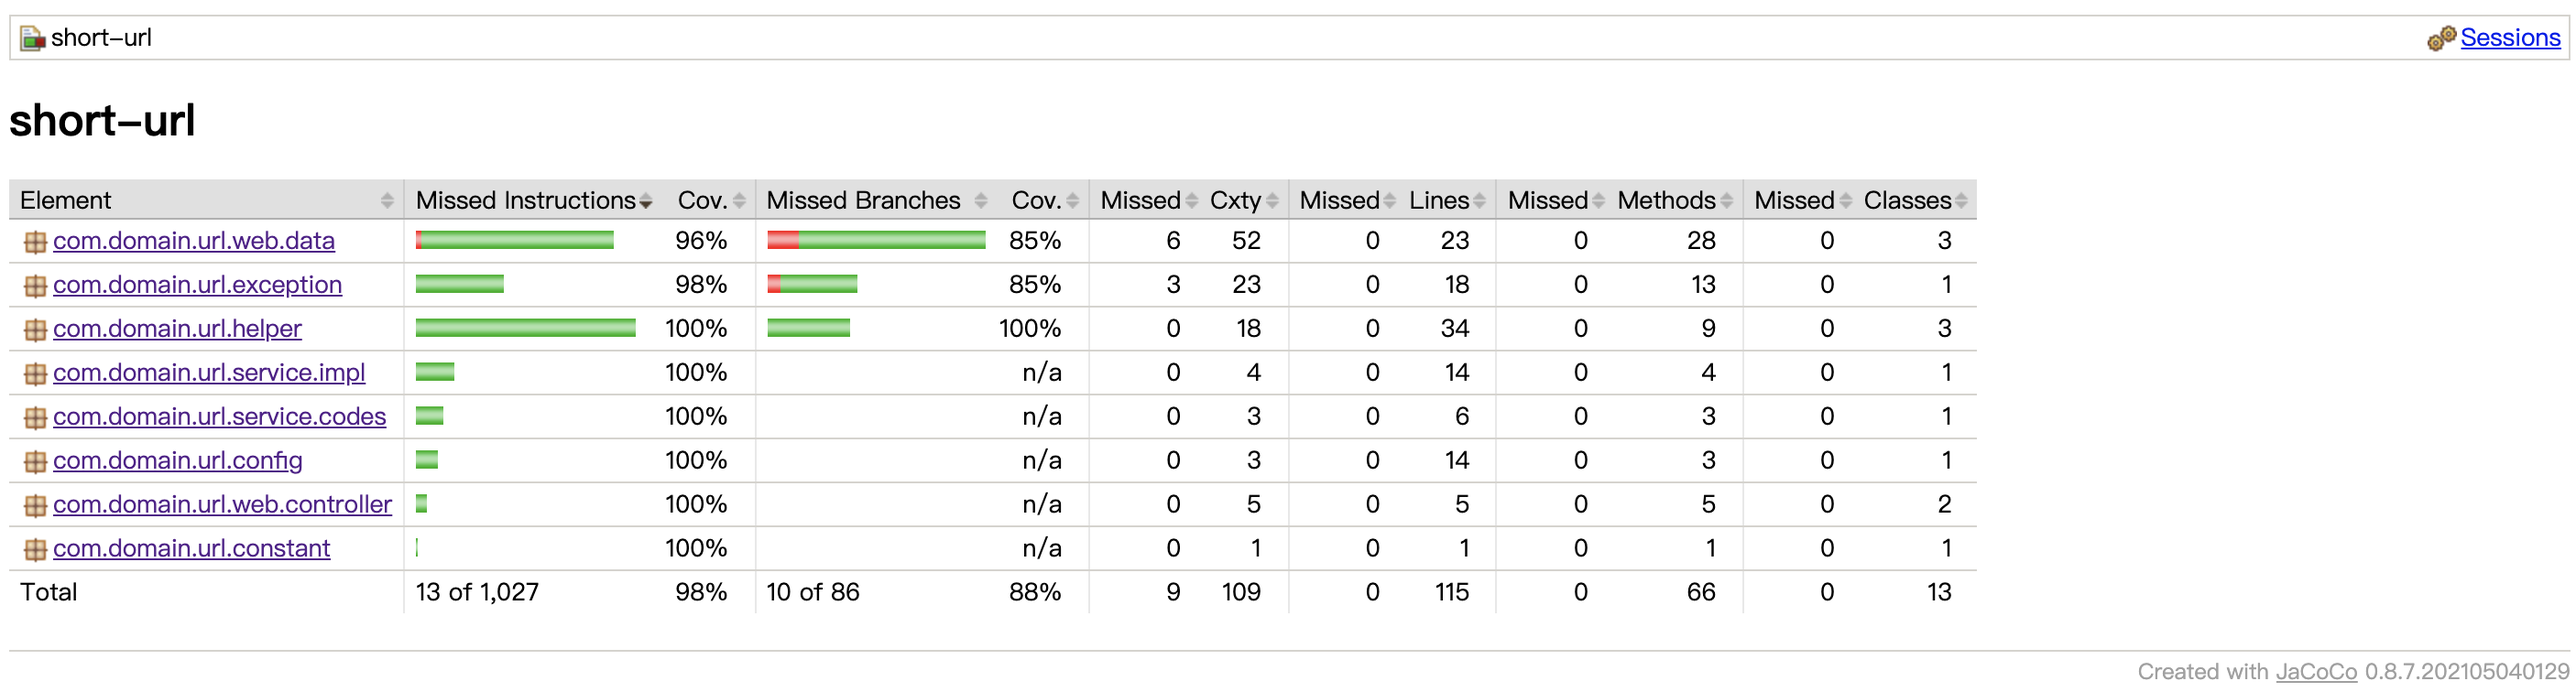
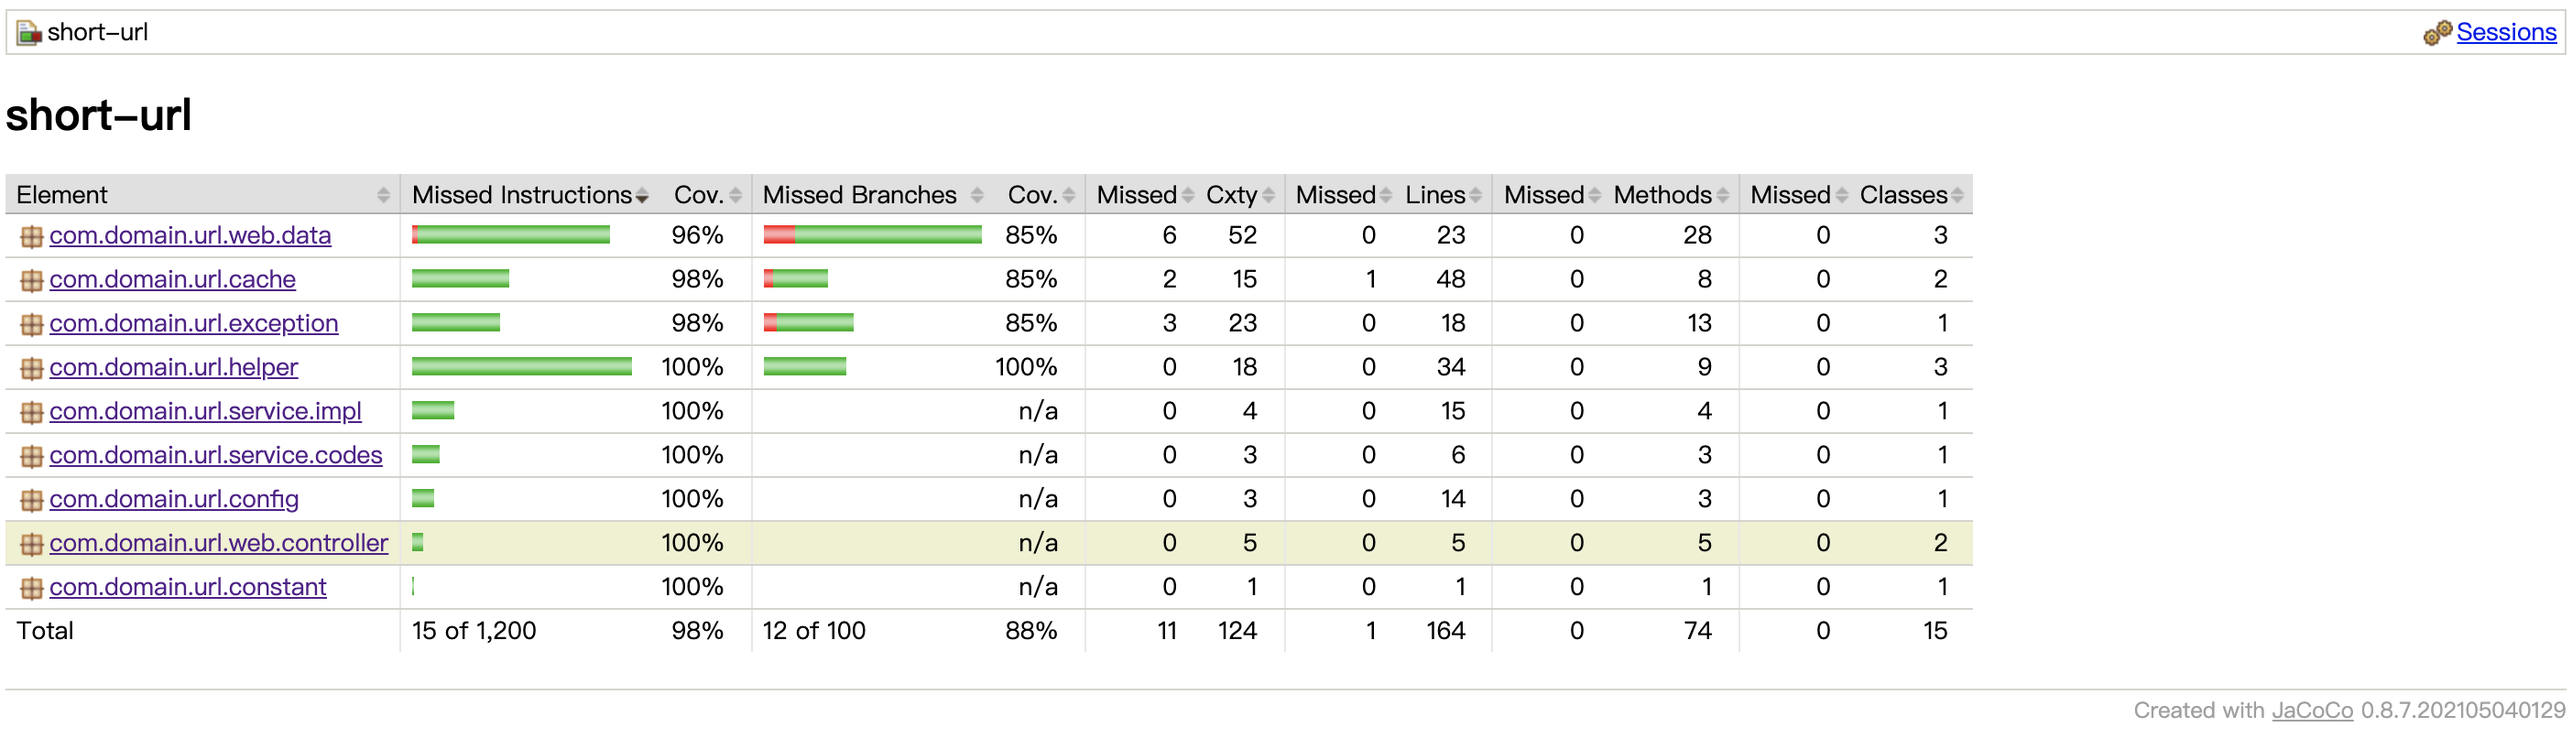
完善设计文档

diff --git a/java/short-url/设计文档.md b/java/short-url/设计文档.md
@@ -1,20 +1,71 @@
 # 设计思路
 
-## 短域名存储接口
+## 数据设计
+### 概念数据模型
+![系统架构图](./doc/概念数据模型.png)
+
+### 数据质量规则
+- 准确性规则：链接有效性校验
+- 完整性规则：链接地址必填
+- 唯一性规则：短链接地址唯一
+- 有效性规则：短链接地址除域名外不超过8位字符
+
+## 质量属性
+|  分类   | 要求  |
+|  ----  | ----  |
+| 兼容性  | Http请求 |
+| 系统容量 | 数据容量：最大仅支持20w条短链接存储 |
+| 系统性能 | 接口响应时长：200ms<br>一般查询响应时长：20ms |
+| 高可用性 | 99.99% |
+
+## 架构设计
+### 核心业务流程设计
+#### 短域名存储接口
 1. **短链接生成**：通过发号策略，给每一个过来的长链接，发一个号即可。小型系统直接用程序实现数字自增或者使用MySql的自增索引就搞定了。如果是大型应用，可以考虑各种分布式key-value系统做发号器，不停的自增就行了。最后将得到的数字做10=>62进制转码即可。第一个使用这个服务的人得到的短地址是http://xx.xx/0，第二个是 http://xx.xx/1，第11个是 http://xx.xx/a 依次往后，相当于实现了一个62进制的自增字段即可。
 2. **存储**：为了保证存储时线程的安全性，使用ConcurrentHashMap存储*短 -> 长链接映射关系*。
-3. **限制条件**：短链接输出的最大长度为8个字符，即*62^8 - 1 = 218340105584894*个短链接地址，超过此数字将重新计数。
+3. **限制条件**：
+   - 短链接输出的最大长度为8个字符，即*62^8 - 1 = 218340105584894*个短链接地址，超过此数字将重新计数。
+   - 为防止内存溢出，实现了LRU缓存，且最大仅存储20w条短链接，内存占用大概为130m。可通过修改[application.properties](.src/main/resources/application.properties)#lru.cache.capacity的值，控制LRU缓存大小。
 
-## 短域名读取接口
+#### 短域名读取接口
 通过固定前缀加上接受的短链接作为key，从映射关系中取出长链接，并返回。
 
-# 架构设计
-### `系统架构`
+### 技术架构图
 采用典型三层架构设计，如下图所示：
 ![系统架构图](./doc/系统架构图.png)
 
-### `工作流程`
+### 工作流程图
 ![工作流程](./doc/工作流程图.png)
+
+### 可靠性设计
+#### 逻辑架构
+- API接口服务分布式部署，并开启健康检查，保证部分服务宕机时，服务继续可用。
+#### 物理架构
+- 服务模块部署，至少2个节点，避免单点故障导致服务不可用。
+
+### 性能容量设计
+- 服务器内存：4G
+- 网络带宽：100M
+
+## 安全管控
+### 传输安全 
+- 核心系统对客户端与服务器之间通信过程中的整个报文或会话过程进行加密，采用HTTPS方式；
+- SSL协议版本使用1.2及更高以上版本；
+- SSL协议加密密钥长度128位；
+- SSL证书域名正确；
+- SSL证书未过期。
+### 日志安全
+- 日志文件存储位置http访问不到；
+- 访问日志与操作日志未分开存储，但是访问日志有可识别标识，且格式统一。
+### 异常处理
+- 系统异常，接口层有统一的自定义异常CODE，Message，避免异常信息带有敏感信息。
+
+## 运维架构
+### 维护方案
+- 版本升级 – 支持灰度发布，服务不中断，下游无感
+
+### 监控方案
+- 可以通过服务拨测进行监控
 
 # JUnit单元测试及Jacoco测试报告
 ![Jacoco测试报告](./doc/Jacoco单测覆盖率报告.png)
